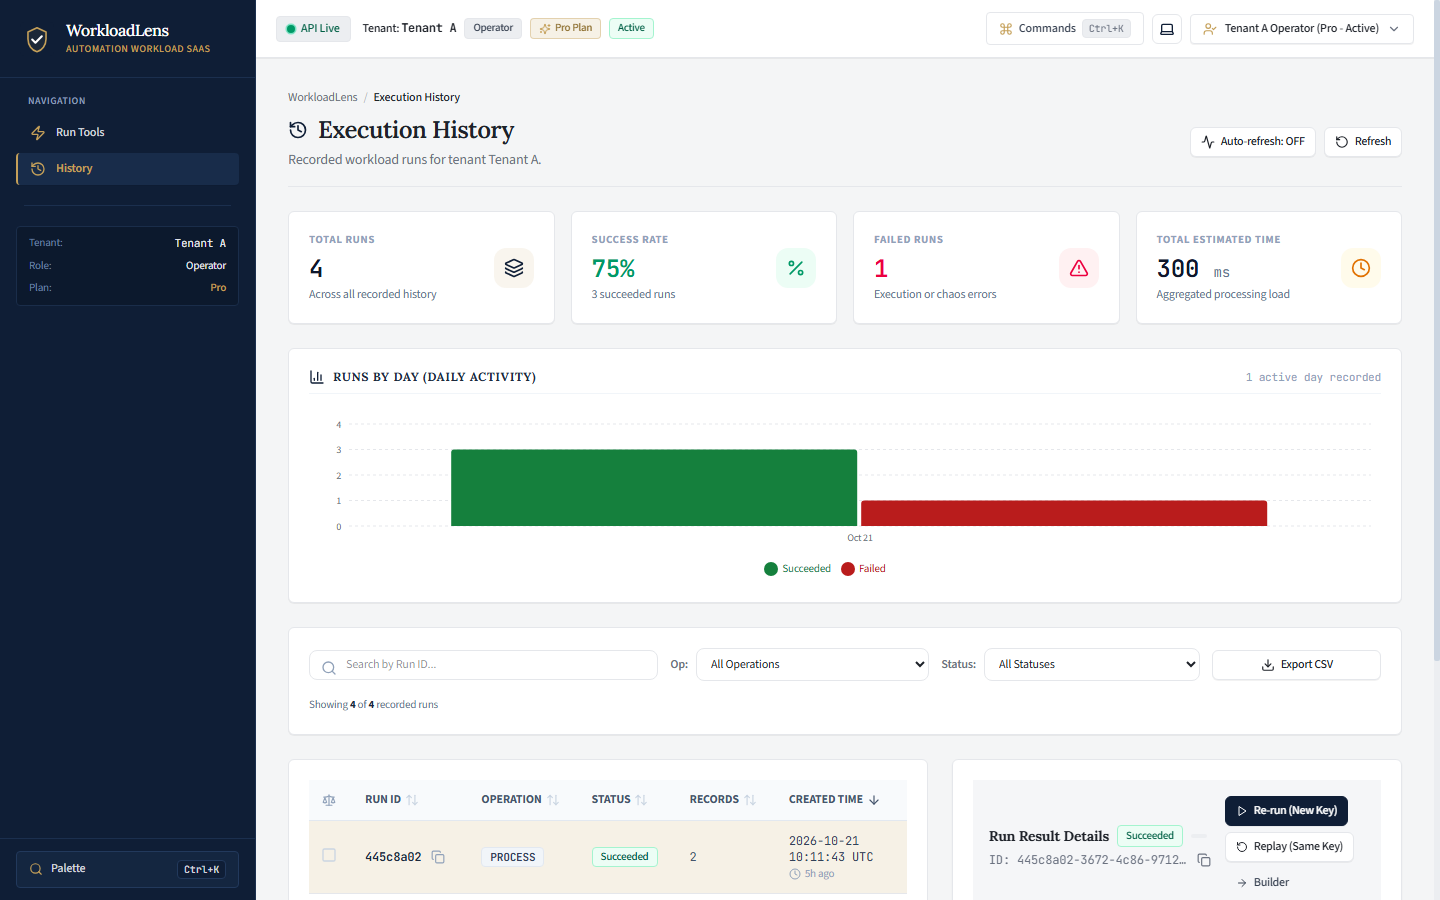
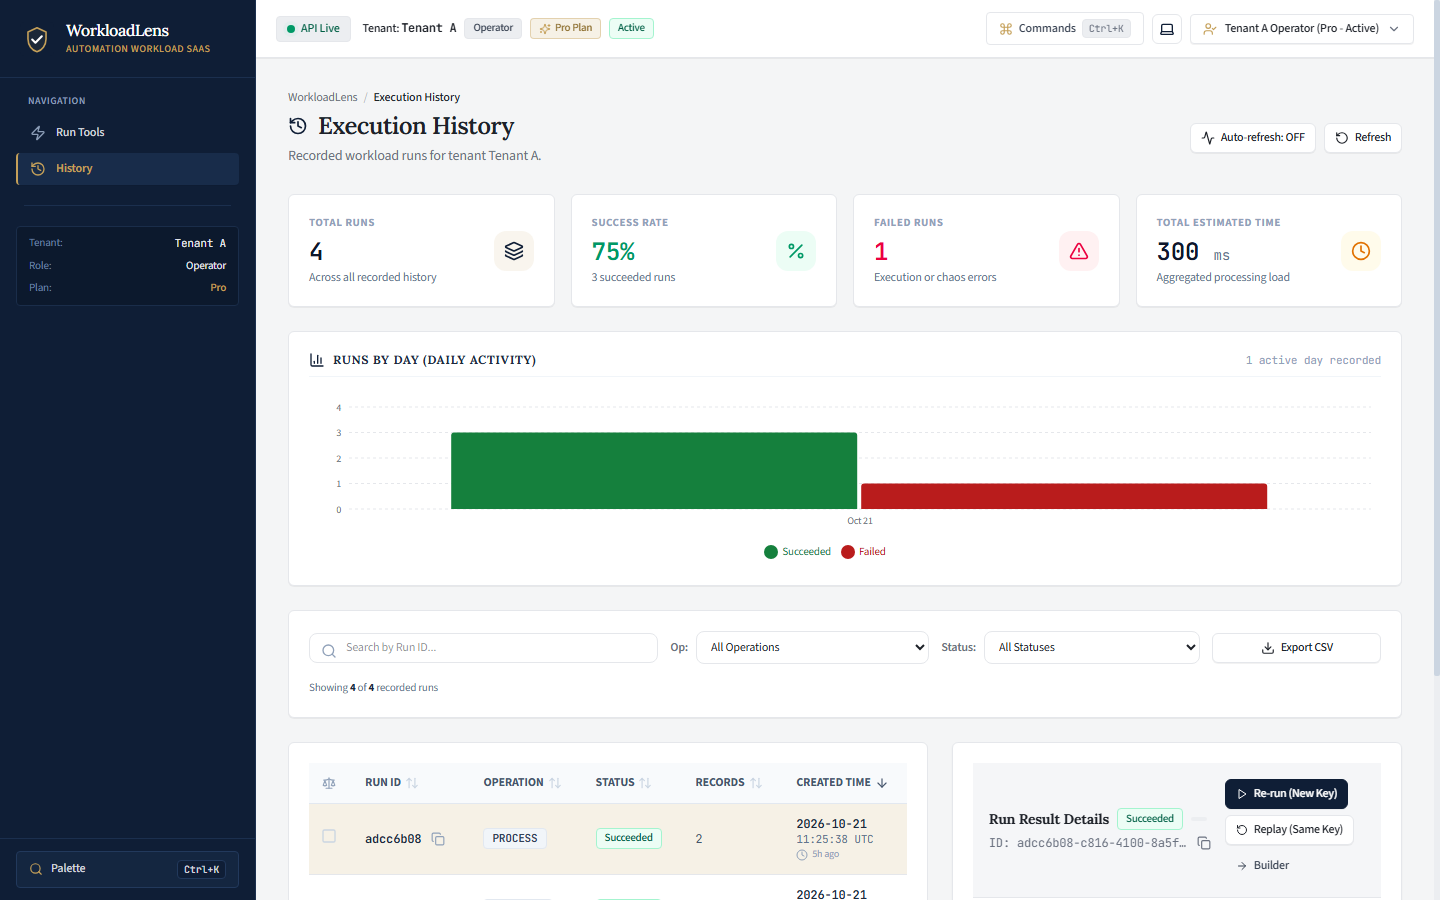
feat(ui): align layout and typography to match reference design exactly

diff --git a/frontend/src/pages/WorkloadHistory.tsx b/frontend/src/pages/WorkloadHistory.tsx
@@ -72,6 +72,17 @@ function formatUtc(dateStr?: string): string {
   return d.toISOString().replace('T', ' ').slice(0, 19) + ' UTC'
 }
 
+function formatUtcParts(dateStr?: string): { date: string; time: string } {
+  if (!dateStr) return { date: '—', time: '' }
+  const d = new Date(dateStr)
+  if (isNaN(d.getTime())) return { date: dateStr, time: '' }
+  const iso = d.toISOString()
+  return {
+    date: iso.slice(0, 10),
+    time: iso.slice(11, 19) + ' UTC',
+  }
+}
+
 function formatRelative(dateStr?: string): string {
   if (!dateStr) return ''
   const d = new Date(dateStr)
@@ -1124,17 +1135,17 @@ export const WorkloadHistory: React.FC = () => {
         ) : (
           <div className="overflow-x-auto">
             <table
-              className="w-full text-left text-xs focus-visible:outline-none focus-visible:ring-1 focus-visible:ring-[#C5A059] rounded"
+              className="w-full text-left text-xs min-w-[560px] focus-visible:outline-none focus-visible:ring-1 focus-visible:ring-[#C5A059] rounded"
               tabIndex={0}
               aria-label="Execution history runs table"
             >
               <thead className="bg-slate-50 dark:bg-slate-800/70 text-slate-600 dark:text-slate-300 uppercase font-semibold border-b border-slate-200 dark:border-slate-800 select-none">
                 <tr>
-                  <th className="py-3 px-3 w-10 text-center" title="Select to compare two runs">
+                  <th className="py-3 px-3 w-10 text-center whitespace-nowrap" title="Select to compare two runs">
                     <Scale className="w-3.5 h-3.5 mx-auto text-slate-400" />
                   </th>
                   <th
-                    className="py-3 px-4 cursor-pointer hover:text-[#C5A059] dark:hover:text-[#E2C37E] transition-colors"
+                    className="py-3 px-4 cursor-pointer hover:text-[#C5A059] dark:hover:text-[#E2C37E] transition-colors whitespace-nowrap"
                     onClick={() => handleSortToggle('run_id')}
                   >
                     <div className="flex items-center gap-1">
@@ -1147,7 +1158,7 @@ export const WorkloadHistory: React.FC = () => {
                     </div>
                   </th>
                   <th
-                    className="py-3 px-4 cursor-pointer hover:text-[#C5A059] dark:hover:text-[#E2C37E] transition-colors"
+                    className="py-3 px-4 cursor-pointer hover:text-[#C5A059] dark:hover:text-[#E2C37E] transition-colors whitespace-nowrap"
                     onClick={() => handleSortToggle('operation')}
                   >
                     <div className="flex items-center gap-1">
@@ -1160,7 +1171,7 @@ export const WorkloadHistory: React.FC = () => {
                     </div>
                   </th>
                   <th
-                    className="py-3 px-4 cursor-pointer hover:text-[#C5A059] dark:hover:text-[#E2C37E] transition-colors"
+                    className="py-3 px-4 cursor-pointer hover:text-[#C5A059] dark:hover:text-[#E2C37E] transition-colors whitespace-nowrap"
                     onClick={() => handleSortToggle('status')}
                   >
                     <div className="flex items-center gap-1">
@@ -1173,7 +1184,7 @@ export const WorkloadHistory: React.FC = () => {
                     </div>
                   </th>
                   <th
-                    className="py-3 px-4 cursor-pointer hover:text-[#C5A059] dark:hover:text-[#E2C37E] transition-colors"
+                    className="py-3 px-4 cursor-pointer hover:text-[#C5A059] dark:hover:text-[#E2C37E] transition-colors whitespace-nowrap"
                     onClick={() => handleSortToggle('records')}
                   >
                     <div className="flex items-center gap-1">
@@ -1186,7 +1197,7 @@ export const WorkloadHistory: React.FC = () => {
                     </div>
                   </th>
                   <th
-                    className="py-3 px-4 cursor-pointer hover:text-[#C5A059] dark:hover:text-[#E2C37E] transition-colors"
+                    className="py-3 px-4 cursor-pointer hover:text-[#C5A059] dark:hover:text-[#E2C37E] transition-colors whitespace-nowrap"
                     onClick={() => handleSortToggle('created_at')}
                   >
                     <div className="flex items-center gap-1">
@@ -1281,12 +1292,15 @@ export const WorkloadHistory: React.FC = () => {
                       </td>
 
                       {/* Created Time */}
-                      <td className="py-3 px-4">
-                        <div className="font-mono text-slate-700 dark:text-slate-300">
-                          {formatUtc(r.created_at)}
+                      <td className="py-3 px-4 whitespace-nowrap">
+                        <div className="font-mono text-xs text-slate-800 dark:text-slate-200 font-semibold">
+                          {formatUtcParts(r.created_at).date}
+                        </div>
+                        <div className="font-mono text-[11px] text-slate-500 dark:text-slate-400">
+                          {formatUtcParts(r.created_at).time}
                         </div>
                         {r.created_at && (
-                          <div className="text-[11px] text-slate-400 flex items-center gap-1 mt-0.5">
+                          <div className="text-[10px] text-slate-400 flex items-center gap-1 mt-0.5">
                             <Clock className="w-3 h-3" />
                             {formatRelative(r.created_at)}
                           </div>

diff --git a/frontend/src/pages/RunTools.tsx b/frontend/src/pages/RunTools.tsx
@@ -2071,14 +2071,14 @@ export const RunTools: React.FC = () => {
 
 
                 {lastRun?.run_id && (
-                  <div className="flex items-center justify-between p-3.5 rounded-xl bg-[#C5A059]/15 dark:bg-[#C5A059]/20 border border-[#C5A059]/40 text-xs shadow-2xs">
+                  <div className="flex flex-col sm:flex-row sm:items-center justify-between p-3.5 rounded-xl bg-surface-muted border border-border text-xs shadow-2xs gap-3">
                     <div className="flex items-center gap-2 flex-wrap">
-                      <span className="font-semibold text-slate-700 dark:text-slate-300">Server-Assigned Run ID:</span>
-                      <code className="font-mono text-[#8C6D2D] dark:text-[#E2C37E] bg-white dark:bg-slate-900 px-2 py-1 rounded border border-[#C5A059]/40 font-bold select-all">
+                      <span className="font-semibold text-text">Server-Assigned Run ID:</span>
+                      <code className="font-mono text-text bg-surface px-2.5 py-1 rounded border border-border font-bold select-all">
                         {lastRun.run_id}
                       </code>
                     </div>
-                    <div className="flex items-center gap-2">
+                    <div className="flex items-center gap-2 flex-shrink-0">
                       <Button
                         type="button"
                         variant="secondary"
@@ -2098,7 +2098,7 @@ export const RunTools: React.FC = () => {
                         variant="primary"
                         size="sm"
                         onClick={() => navigate(`/history?search=${lastRun.run_id}`)}
-                        className="text-xs gap-1"
+                        className="text-xs gap-1 bg-[#0F1E36] text-white hover:bg-[#152642]"
                       >
                         View in History →
                       </Button>

diff --git a/frontend/src/components/Shell.tsx b/frontend/src/components/Shell.tsx
@@ -301,8 +301,12 @@ export const Shell: React.FC<{ children: ReactNode }> = ({ children }) => {
                 }`
               }
             >
-              <Zap className="w-4 h-4 text-[#C5A059]" />
-              <span>Run Tools</span>
+              {({ isActive }) => (
+                <>
+                  <Zap className={`w-4 h-4 ${isActive ? 'text-[#C5A059]' : 'text-[#8B9DB7]'}`} />
+                  <span>Run Tools</span>
+                </>
+              )}
             </NavLink>
             <NavLink
               to="/history"
@@ -315,8 +319,12 @@ export const Shell: React.FC<{ children: ReactNode }> = ({ children }) => {
                 }`
               }
             >
-              <History className="w-4 h-4 text-[#C5A059]" />
-              <span>History</span>
+              {({ isActive }) => (
+                <>
+                  <History className={`w-4 h-4 ${isActive ? 'text-[#C5A059]' : 'text-[#8B9DB7]'}`} />
+                  <span>History</span>
+                </>
+              )}
             </NavLink>
           </nav>
 

diff --git a/frontend/src/components/ui.tsx b/frontend/src/components/ui.tsx
@@ -539,7 +539,7 @@ export const PageHeader: React.FC<PageHeaderProps> = ({
   className = '',
 }) => {
   return (
-    <div className={`space-y-2 pb-4 border-b border-border ${className}`}>
+    <div className={`space-y-1 pb-1 ${className}`}>
       {breadcrumbs.length > 0 && (
         <nav aria-label="Breadcrumb" className="flex items-center gap-1.5 text-xs text-muted">
           {breadcrumbs.map((b, idx) => {
